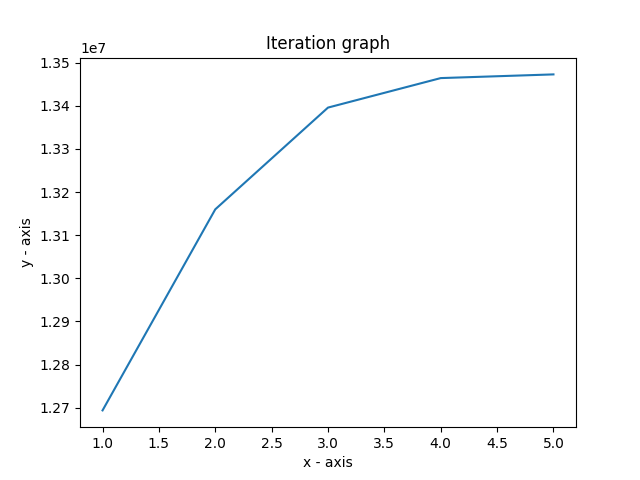
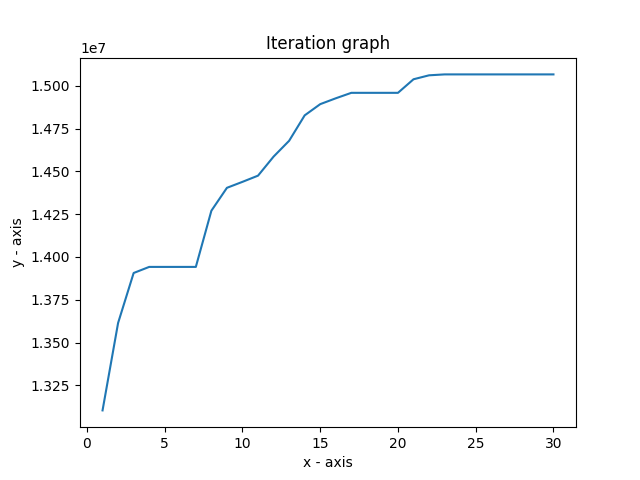
found the sweet spot for number of iterations

diff --git a/project_code/classes/land.py b/project_code/classes/land.py
@@ -14,6 +14,7 @@ class Land():
         self.depth = 160
         self.all_land_objects = []
         self.total = 0
+        self.total_real = 0
         self.water = []
         self.load_water(source_file)
         #self.load_houses(number_houses)
@@ -75,7 +76,8 @@ class Land():
                 all_polygons.remove(house.polygon)
                 polygons = MultiPolygon(all_polygons)
                 nearest_geom = nearest_points(origin, polygons)
-                extra_space = math.floor(nearest_geom[0].distance(nearest_geom[1]))
+                # extra_space = math.floor(nearest_geom[0].distance(nearest_geom[1]))
+                extra_space = nearest_geom[0].distance(nearest_geom[1])
                 house.nearest_neighbour = extra_space
                 all_polygons.append(house.polygon)        
 
@@ -98,6 +100,27 @@ class Land():
                 self.total += house.price
         
         return self.total
+
+
+    def calculate_price_real(self, houses):
+        '''
+        Calculate price of house and total price of land
+        '''
+
+        for house in houses:
+            if house.name == "familyhome":
+                house.price = 285000 + (285000 * 0.03 * math.floor(house.nearest_neighbour))
+                self.total_real += house.price
+
+            elif house.name == "bungalow":
+                house.price = 399000 + (399000 * 0.04 * math.floor(house.nearest_neighbour))
+                self.total_real += house.price
+
+            elif house.name == "maison":
+                house.price = 610000 + (610000 * 0.06 * math.floor(house.nearest_neighbour))
+                self.total_real += house.price
+        
+        return self.total_real
 
 
 

diff --git a/project_code/algorithms/hillclimber.py b/project_code/algorithms/hillclimber.py
@@ -42,19 +42,20 @@ class HillClimber():
         current_best_value = copy_map.total
         counter = 0
         # steps = 8
-        iterations = 5
+        iterations = 30
 
         # data for iteration graph
         iteration_counter = 0
         results = []
         total_iterations = []
+        # steps = 2
         for i in range(iterations):
 
-            if i < 10:
+            if i < 7:
                 steps = 8 
-            if i >= 10 and i < 15:
+            if i >= 7 and i < 13:
                 steps = 4
-            if i >= 15 and i < 20:
+            if i >= 13 and i < 20:
                 steps = 2
             if i >= 20:
                 steps = 1
@@ -172,12 +173,13 @@ class HillClimber():
         # calculates value for return object
         copy_map.calculate_distance(copy_map.all_land_objects)
         total_value_up = copy_map.calculate_price(copy_map.all_land_objects)
-
-        print(f"copy map: {copy_map.total}")
-        print(f"copy map: {generations[0]}")
+        copy_map.calculate_price_real(copy_map.all_land_objects)
         
-        print(total_iterations)
-        print(results)
+        print(f"total: {copy_map.total}")
+        print(f"total_real: {copy_map.total_real}")
+        
+        # print(total_iterations)
+        # print(results)
         
         plt.plot(total_iterations, results)
         plt.xlabel('x - axis')

diff --git a/main.py b/main.py
@@ -32,10 +32,21 @@ if __name__ == "__main__":
     # # ---------------------------------------------------------------
 
     # --------------------------- Hill Climber  --------------------------
-    empty_graph = Land(f"data/{wijk_number}.csv")
-    starting_graph = Randomise(empty_graph, number_of_houses, 12)
-    winner_graph = HillClimber(starting_graph.winner)
-    visualise(winner_graph.winner.all_land_objects, winner_graph.winner.total)
+    results = []
+    winner = None
+    for i in range(12):
+        empty_graph = Land(f"data/{wijk_number}.csv")
+        starting_graph = Randomise(empty_graph, number_of_houses, 12)
+        winner_graph = HillClimber(starting_graph.winner)
+        results.append(winner_graph.winner.total_real)
+        
+        if winner == None:
+            winner = winner_graph
+        if winner_graph.winner.total_real > winner.winner.total_real:
+            winner = winner_graph
+    
+    # winner_graph.winner.total_real
+    visualise(winner_graph.winner.all_land_objects, winner_graph.winner.total_real)
 
     # ---------------------------------------------------------------------
 
